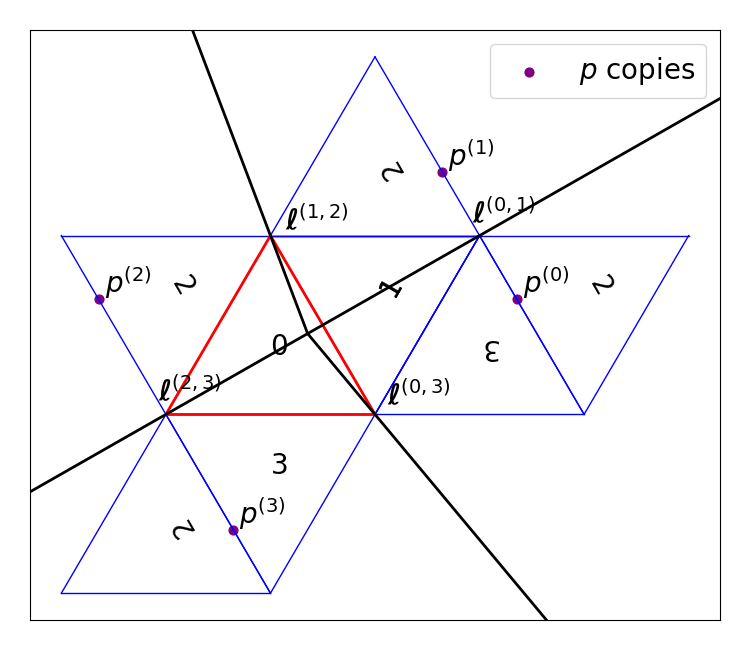
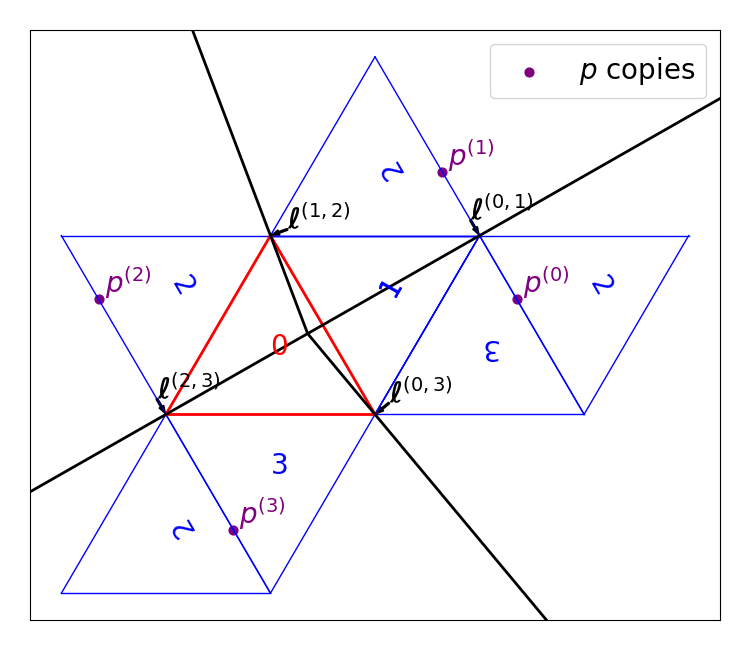
labeler better

diff --git a/src/shapes.py b/src/shapes.py
@@ -1291,7 +1291,7 @@ class Shape:
                 v1 = face[i]
                 v2 = face[(i + 1)%len(face)]
                 ax.plot([v1[0], v2[0]], [v1[1], v2[1]], color=color, linewidth=linewidth)
-            ax.annotate(str(name) + orient_string, (center[0], center[1]), rotation=np.degrees(theta))
+            ax.annotate(str(name) + orient_string, (center[0], center[1]), rotation=np.degrees(theta), color=color)
 
         if len(vp) >= 2:  # if there is only one, the cut locus does not exist on this face
             relevant_points, relevant_bound_paths, relevant_cells = self.filter_out_points(vp, bound_paths, source,
@@ -1334,25 +1334,50 @@ class Shape:
                     all_trans_shown.append(tracker_points + [pt])
 
                     for face, name, center, rot_v in iteration[:-1]:
-                        plot_label_face(ax=ax, face=face, name=name, center=center, rot_v=rot_v, color='blue',
+                        plot_label_face(ax=ax,
+                                        face=face,
+                                        name=name,
+                                        center=center,
+                                        rot_v=rot_v,
+                                        color='blue',
                                         linewidth=1)
                     label = None
                     if not labeled:
                         label = '$p$ copies'
                         labeled = True
-                    ax.scatter(pt[0], pt[1], color='purple', label=label, alpha=1, s=40)
+                    pt_color = 'purple'
+                    ax.scatter(pt[0], pt[1],
+                               color=pt_color,
+                               label=label,
+                               alpha=1,
+                               s=40)
                     if label_diagram:
                         label_pt = pt + [[.1], [.1]]
-                        ax.annotate('$p^{(' + str(pt_idx) + ')}$', (label_pt[0], label_pt[1]), rotation=0)
+                        ax.annotate('$p^{(' + str(pt_idx) + ')}$',
+                                    (label_pt[0], label_pt[1]),
+                                    rotation=0,
+                                    color=pt_color)
             (face, name, center, rot_v) = special_face
-            plot_label_face(ax=ax, face=face, name=name, center=center, rot_v=rot_v, color='red', linewidth=2)
+            plot_label_face(ax=ax,
+                            face=face,
+                            name=name,
+                            center=center,
+                            rot_v=rot_v,
+                            color='red',
+                            linewidth=2)
             # ax.scatter([0], [0], label='center', alpha=.5, s=80)
             relevant_points = np.concatenate(relevant_points, axis=1)
 
             vor = Voronoi(relevant_points.T)
             xlim, ylim = ax.get_xlim(), ax.get_ylim()
-            voronoi_plot_2d(vor, ax=ax, show_points=False, show_vertices=False, line_colors='black',
-                            line_width=2, line_alpha=1, label_lines=label_diagram)
+            voronoi_plot_2d(vor,
+                            ax=ax,
+                            show_points=False,
+                            show_vertices=False,
+                            line_colors='black',
+                            line_width=2,
+                            line_alpha=1,
+                            label_lines=label_diagram)
             ax.set_xlim(xlim)
             ax.set_ylim(ylim)
             ax.legend()

diff --git a/src/my_vornoi.py b/src/my_vornoi.py
@@ -66,7 +66,8 @@ def voronoi_plot_2d(vor, ax=None, **kw):
     infinite_segments = []
     points_to_segments = {i: list() for i in
                           range(vor.npoints)}  # dictionary of point indices to the segments they create
-    segments_to_points = dict()  # dict of segments -> indices of points that created them
+    text_positions = []  # list of label positions so that the next one is far from the previous
+    arrows = []
     for pointidx, simplex in zip(vor.ridge_points, vor.ridge_vertices):  # iterates through all lines
         # pointidx: two indices of points that create this line
         # simplex: two indices of vertices of the vornoi diagram that create this line
@@ -119,10 +120,39 @@ def voronoi_plot_2d(vor, ax=None, **kw):
                 label_point = avg_point
 
         if ax is not None and kw.get('label_lines', False):
-            label_point += tangeant*.25  # push off line
+            # push label point off line
+            potential_text_points = [label_point + tangeant*.3,
+                                     label_point + tangeant*.5,
+                                     label_point - tangeant*.5, #- np.array([.5, 0.])
+                                     ]
+            if len(text_positions) > 0:
+                text_point = max(potential_text_points, key=lambda pt:
+                min(np.linalg.norm(np.array(text_positions) - pt, axis=1)))
+
+                dist = min(np.linalg.norm(np.array(text_positions) - text_point, axis=1))
+                if dist > 1:
+                    text_point = potential_text_points[0]
+            else:
+                text_point = potential_text_points[0]
+
+            text_positions.append(text_point)
             label_names = sorted([str(pointidx[0]), str(pointidx[1])])
             ax.annotate('$\\mathbf{\\ell}^{' + '(' + label_names[0] + ',' + label_names[1] + ')' + '}$',
-                        (label_point[0], label_point[1]), rotation=0)
+                        (text_point[0], text_point[1]), rotation=0, color=line_colors)
+            if (text_point[0] <= ax.get_xlim()[1] and
+                    text_point[0] >= ax.get_xlim()[0] and
+                    text_point[1] <= ax.get_ylim()[1] and
+                    text_point[1] >= ax.get_ylim()[0]):
+                diff = (label_point - text_point)*.7
+                ax.arrow(
+                    text_point[0],  # x
+                    text_point[1],  # y
+                    diff[0],  # dx
+                    diff[1],  # dy
+                    width=.02,
+                    color=line_colors,
+                    alpha=line_alpha/2,
+                )
 
     fig = None
     if ax is not None:
